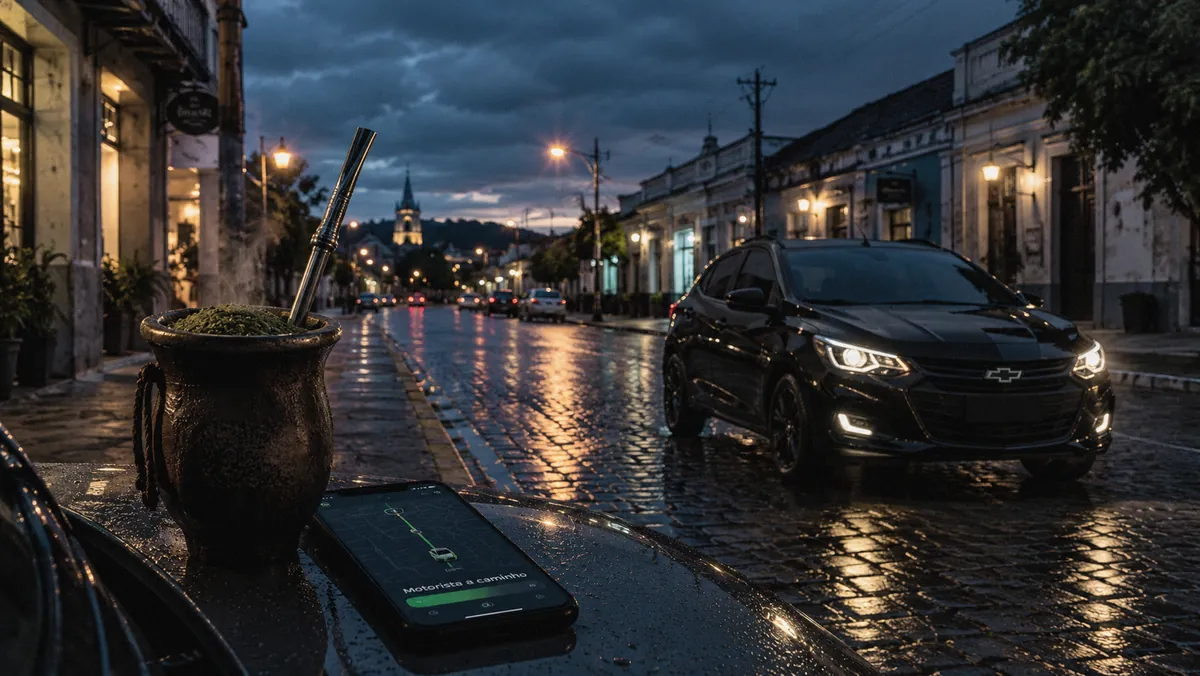
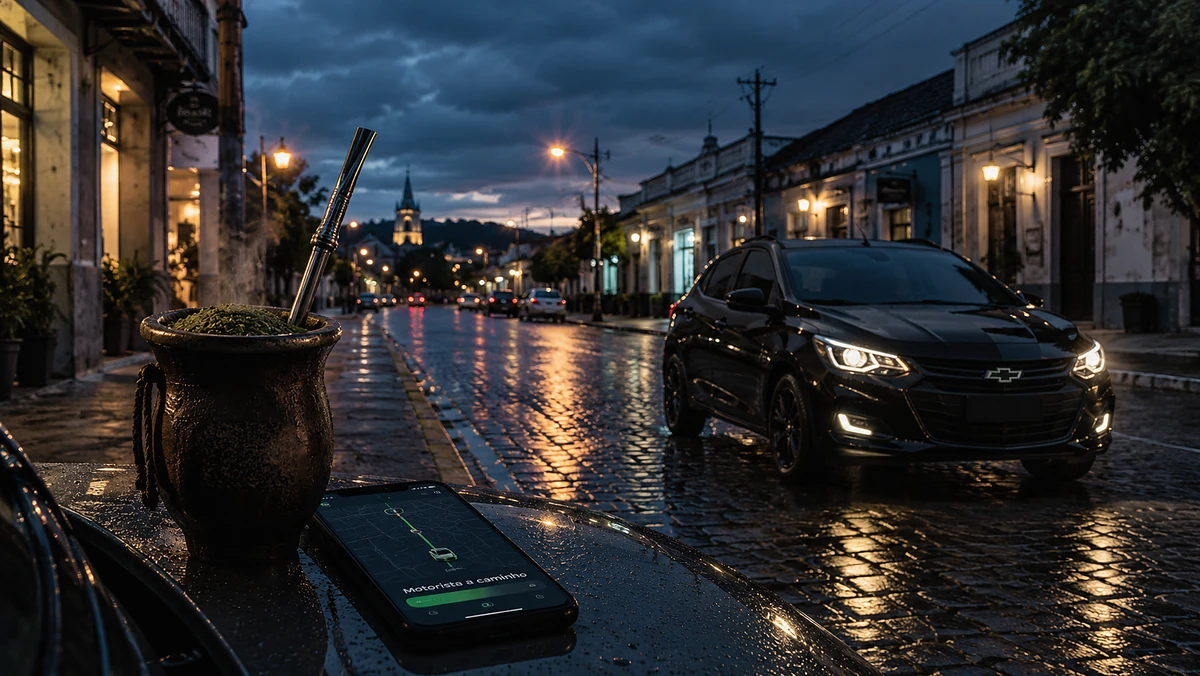
Hero: imagem em qualidade máxima (sem grão artificial, compressão mais leve, nitidez sutil)
Claude-Session: https://claude.ai/code/session_013RDV9Lg3cpi8NyiZZVrfC5

diff --git a/src/components/Hero.tsx b/src/components/Hero.tsx
@@ -58,8 +58,8 @@ export const Hero: React.FC<HeroProps> = () => {
         <img
           src="/hero-rua-mobile.webp"
           alt="Cuia de chimarrão e celular com o app da BahCar sobre um carro, numa rua de paralelepípedo ao anoitecer, com um Onix estacionado"
-          width={1080}
-          height={706}
+          width={1440}
+          height={941}
           decoding="async"
           fetchPriority="high"
           className="block w-full h-auto"
